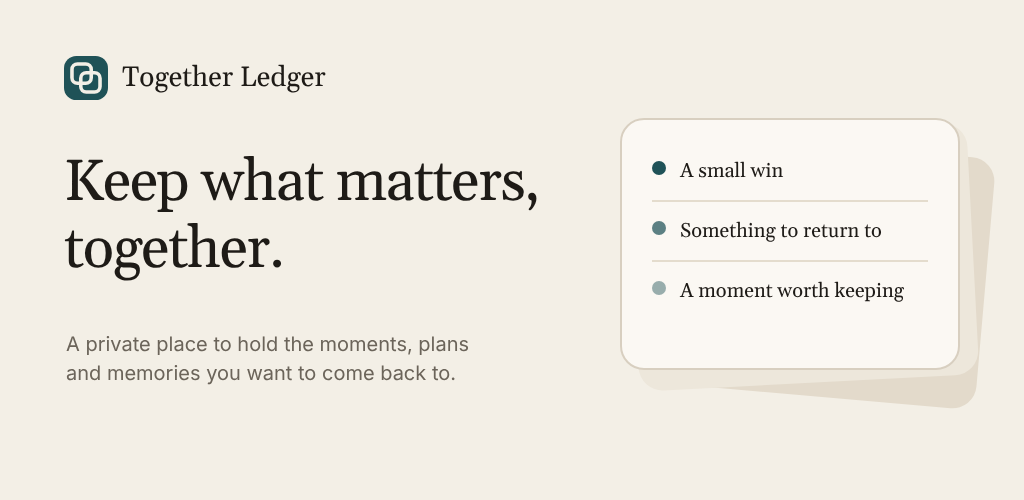
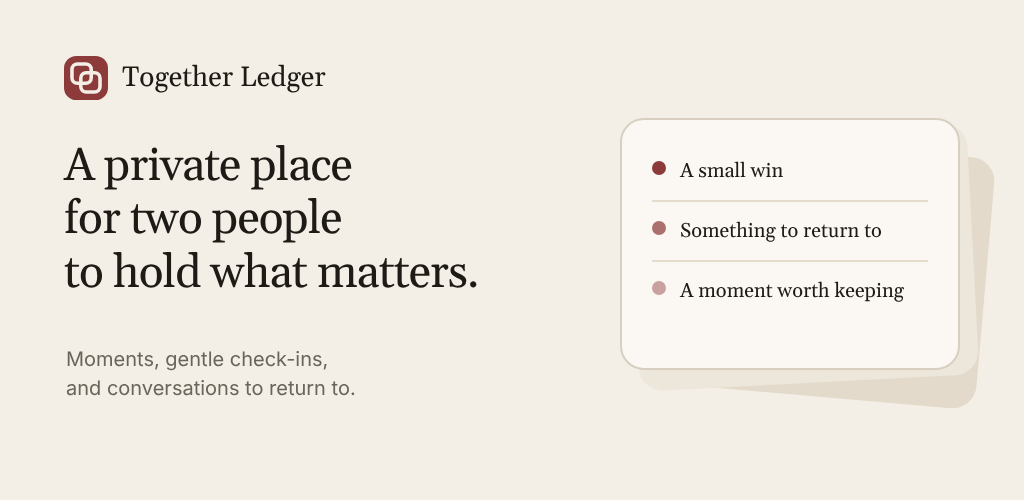
Describe Together Ledger as one product, in the knot's own colours
The listing now describes web and phone together, as one app: photos,
places, check-ins, milestones and export are in, and the lines that
limited it to the phone are gone. "For two people" stays, with "A journey
of two is free. You can add more people whenever you're ready", which the
checker now requires. The icon and feature graphic go back to the
original brand colours, the knot's #8C3A3A as on the website, and the
feature graphic to the site's social card copy. The README records
these as decided and notes that a web search found no app called
Together Ledger on Play.

diff --git a/store/google-play/source/feature-graphic.html b/store/google-play/source/feature-graphic.html
@@ -3,11 +3,10 @@
   Google Play feature graphic, 1024 × 500. Rendered to
   ../feature-graphic-1024x500.png by render.mjs.
 
-  The headline and the line under it are the app's own welcome copy
-  (apps/mobile/app/index.tsx), minus "for two people", which waits on #304.
-  The card on the right echoes the site's social card
-  (public/social/together-ledger-card.svg), with the dots in the accent role
-  instead of the retired red. Light theme roles from src/styles.css; Gelasio
+  The words and the card are the site's social card
+  (public/social/together-ledger-card.svg), in its original colours: the
+  knot and the dots in #8C3A3A, chosen by the owner on Oct 6. Paper, ink and
+  muted are the Light theme roles from src/styles.css; Gelasio
   at weight 400 for the serif (#177), the system sans for the rest. Nothing
   sits within 48 px of an edge, since Play can crop.
 -->
@@ -16,14 +15,14 @@
 <meta charset="utf-8">
 <style>
   @font-face { font-family: Gelasio; src: url(FONT_DIR/Gelasio_400Regular.ttf); font-weight: 400; }
-  :root { --bg: #F3EFE6; --fg: #1E1B17; --muted: #6B645A; --accent: #1F5257; --surface: #EDE7DB; --elev: #FBF8F3; --border: #D8CFC0; }
+  :root { --bg: #F3EFE6; --fg: #1E1B17; --muted: #6B645A; --brand: #8C3A3A; --surface: #EDE7DB; --elev: #FBF8F3; --border: #D8CFC0; }
   html, body { margin: 0; width: 1024px; height: 500px; overflow: hidden; background: var(--bg); color: var(--fg); }
   .sans { font-family: ui-sans-serif, system-ui, -apple-system, "Segoe UI", Roboto, sans-serif; }
   .serif { font-family: Gelasio, Georgia, serif; font-weight: 400; }
   .brand { position: absolute; left: 64px; top: 56px; display: flex; align-items: center; gap: 14px; }
   .brand span { font-size: 28px; }
-  .head { position: absolute; left: 64px; top: 150px; width: 560px; font-size: 58px; line-height: 1.16; letter-spacing: -0.02em; }
-  .sub { position: absolute; left: 66px; top: 330px; width: 540px; font-size: 20px; line-height: 1.45; color: var(--muted); }
+  .head { position: absolute; left: 64px; top: 140px; width: 560px; font-size: 46px; line-height: 1.16; letter-spacing: -0.02em; }
+  .sub { position: absolute; left: 66px; top: 345px; width: 520px; font-size: 20px; line-height: 1.45; color: var(--muted); }
   .stack { position: absolute; left: 620px; top: 118px; width: 340px; height: 252px; }
   .card { position: absolute; inset: 0; border-radius: 24px; }
   .c3 { background: #E3DACB; transform: translate(26px, 26px) rotate(5deg); }
@@ -31,16 +30,16 @@
   .c1 { background: var(--elev); border: 2px solid var(--border); padding: 22px 30px; box-sizing: border-box; }
   .row { display: flex; gap: 14px; align-items: baseline; padding: 16px 0; border-bottom: 2px solid #E4DCCD; font-size: 20px; white-space: nowrap; }
   .row:last-child { border-bottom: 0; }
-  .dot { width: 14px; height: 14px; border-radius: 50%; background: var(--accent); flex: none; transform: translateY(-2px); }
+  .dot { width: 14px; height: 14px; border-radius: 50%; background: var(--brand); flex: none; transform: translateY(-2px); }
 </style>
 </head>
 <body>
 <div class="brand">
-  <svg width="44" height="44" viewBox="0 0 64 64"><rect width="64" height="64" rx="18" fill="#1F5257"/><g transform="translate(6.4 6.4) scale(.8)" fill="none" stroke="#F3EFE6" stroke-width="6.5"><rect x="6.5" y="6.5" width="35" height="35" rx="10"/><rect x="22.5" y="22.5" width="35" height="35" rx="10"/></g></svg>
+  <svg width="44" height="44" viewBox="0 0 64 64"><rect width="64" height="64" rx="18" fill="#8C3A3A"/><g transform="translate(6.4 6.4) scale(.8)" fill="none" stroke="#F3EFE6" stroke-width="6.5"><rect x="6.5" y="6.5" width="35" height="35" rx="10"/><rect x="22.5" y="22.5" width="35" height="35" rx="10"/></g></svg>
   <span class="serif">Together Ledger</span>
 </div>
-<div class="head serif">Keep what matters,<br>together.</div>
-<div class="sub sans">A private place to hold the moments, plans<br>and memories you want to come back to.</div>
+<div class="head serif">A private place<br>for two people<br>to hold what matters.</div>
+<div class="sub sans">Moments, gentle check-ins,<br>and conversations to return to.</div>
 <div class="stack">
   <div class="card c3"></div><div class="card c2"></div>
   <div class="card c1 serif">

diff --git a/store/google-play/source/icon.html b/store/google-play/source/icon.html
@@ -7,10 +7,11 @@
   public/favicon.svg and index.html (#knot-mark): two overlapping rounded
   squares, same geometry, set a little smaller so Play's mask never clips it.
 
-  Colours are the Light theme's roles (src/styles.css,
-  apps/mobile/src/theme/tokens.json): accent #1F5257 behind, bg #F3EFE6 for
-  the knot. Not the favicon's #8C3A3A: that hex is the destructive role now,
-  and the destructive colour is only for what cannot be undone (CLAUDE.md).
+  Colours are the knot's own, exactly as the favicon and the social card
+  draw it: #8C3A3A behind, #F3EFE6 for the knot. The owner chose these
+  original brand colours on Oct 6 over the Light theme's accent. The hex is
+  also the in-app destructive role; that rule governs interface colour, and
+  this is the brand mark.
 -->
 <html>
 <head>
@@ -23,7 +24,7 @@
 </head>
 <body>
 <svg xmlns="http://www.w3.org/2000/svg" width="512" height="512" viewBox="0 0 64 64">
-  <rect width="64" height="64" fill="#1F5257"/>
+  <rect width="64" height="64" fill="#8C3A3A"/>
   <g transform="translate(9.6 9.6) scale(.7)" fill="none" stroke="#F3EFE6" stroke-width="6.5">
     <rect x="6.5" y="6.5" width="35" height="35" rx="10"/>
     <rect x="22.5" y="22.5" width="35" height="35" rx="10"/>

diff --git a/store/google-play/README.md b/store/google-play/README.md
@@ -3,16 +3,17 @@
 Draft of the Play Console **Main store listing** for Together Ledger
 (`com.togetherledger.ledger`), the "Store assets" part of Step 3 in the Google
 Play guide. The wording follows `CLAUDE.md` ("Language", "Design system") and
-`docs/PRODUCT_PRINCIPLES.md`, and describes the **phone app** as it is on
-`main`, not the web app.
+`docs/PRODUCT_PRINCIPLES.md`. It describes **Together Ledger as one
+product**, web and phone together, as the owner asked on Oct 6. The web has
+the most features today, and they are being brought to the phone.
 
 | Play Console field | File | Limit | Now |
 |---|---|---|---|
 | App name | `title.txt` | 30 | 15 |
-| Short description | `short-description.txt` | 80 | 66 |
-| Full description | `full-description.txt` | 4,000 | 2,052 |
+| Short description | `short-description.txt` | 80 | 52 |
+| Full description | `full-description.txt` | 4,000 | 2,010 |
 | App icon (512 × 512 PNG, opaque) | `icon-512.png` | 1 MB | 11 KB |
-| Feature graphic (1024 × 500 PNG) | `feature-graphic-1024x500.png` | 15 MB | 52 KB |
+| Feature graphic (1024 × 500 PNG) | `feature-graphic-1024x500.png` | 15 MB | 53 KB |
 
 Store settings to enter alongside them:
 
@@ -30,39 +31,34 @@ node store/google-play/check-listing.mjs
 
 It checks the three lengths, emoji, superlatives and other brands' names, the
 capacity words `CLAUDE.md` rules out (seats, licenses, slots, "removed"),
-claims the phone can't back yet, and that the lines keeping the listing
-honest are still there.
+claims nothing in Together Ledger backs yet, and that "A journey of two is
+free" and the agreement rule for adding people are still there.
 
 ## What every claim rests on
 
 | Claim | Where it's true |
 |---|---|
-| Kinds of moment, a date, a name, detail, your own kind; edit or delete | `apps/mobile/app/moment.tsx`, `src/model.js` |
-| Private / Share later / Shared now, in shape, word and border | `apps/mobile/app/moment.tsx`, the privacy cue language in `CLAUDE.md` |
+| Kinds of moment, a date, a place in your own words, a photo, detail, your own kind; edit or delete | `index.html` and `src/` (web), `apps/mobile/app/moment.tsx`, `src/model.js` |
+| Private / Share later / Shared now, in shape, word and border | both clients; the privacy cue language in `CLAUDE.md` |
 | A shared moment can't be made private again | `PRIVACY.md` |
-| Recent moments and what wants care | `apps/mobile/app/ledger.tsx` |
-| Return-to conversations; a history that is only ever added to | `apps/mobile/app/history.tsx` (append-only, #184) |
-| Two people to begin with; someone new joins only when everyone agrees | `TERMS.md`, `apps/mobile/app/journey-settings.tsx` |
-| No ads, no analytics, no crash reporting, nothing sold | `PRIVACY.md`, `README.md`, no SDK in `apps/mobile/package.json` |
-| Doesn't ask for location, contacts, camera, microphone or photos | No such module in `apps/mobile/package.json` |
-| Sign-in kept in the phone's secure storage | `PRIVACY.md`, `expo-secure-store` |
-| No scores; money is context, never a score | `apps/mobile/app/moment.tsx` ("never counted as a score"), `ROADMAP.md` |
-| Delete your account in the app | `apps/mobile/app/delete-account.tsx` |
-| Light, Dark, Green, Flexoki; your theme is only your view | the welcome screen, `apps/mobile/src/theme/` |
-| A journey is started on the web for now | `apps/mobile/app/ledger.tsx` empty state |
-| Photos and export are on the web for now | #187; `PRIVACY.md` (export is in browser Settings) |
+| A check-in asks one question at a time and saves nothing written | `README.md` ("bounded one-prompt-at-a-time check-in with no saved written answers") |
+| Recent moments and what wants care; return-to conversations | `apps/mobile/app/ledger.tsx`, `history.tsx`, and the web journey |
+| Milestones mark shared actions, never relationship quality | `README.md` ("action milestones") |
+| A history that is only ever added to | the Event Manager (web), `apps/mobile/app/history.tsx` (append-only, #184) |
+| A journey of two is free; more people can be added, only when everyone agrees | `TERMS.md`; owner decision, Oct 6 |
+| No ads, no analytics trackers, nothing sold | `PRIVACY.md` |
+| No scores; money is context, never a score | `README.md`, `ROADMAP.md`, `moment.tsx` |
+| Export all journeys | web Settings ("Export all journeys") |
+| Delete your account | web Settings, `apps/mobile/app/delete-account.tsx` |
+| Same account on the phone and the web | private sync for separate accounts (`README.md`) |
+| Light, Dark, Green, Flexoki; your theme is only your view | both clients |
 | 18 and over; not therapy, financial advice or professional support | `TERMS.md`, `PRIVACY.md`, `index.html` |
 
-Left out on purpose:
-
-- **"For two people" as a fixed promise.** #304 is still open. The listing
-  uses `TERMS.md`'s form, which is accurate either way.
-- **Check-ins.** They're web-only.
-- **Notifications** (#265), **offline** (#300), **invite links** (#266),
-  **phone sign-in with Google or Apple** (#217), **sync** (#186) and
-  **encryption**.
-- **Any price or purchase.** The phone has none (#318, #320), and Play
-  doesn't allow pointing to payment elsewhere.
+Left out on purpose, because nothing in Together Ledger does them yet:
+**notifications** (#265), **offline** (#300), **encryption**, and
+"seamless" sync (#186 is open and `TERMS.md` disclaims conflicts). A
+**price** is left out too: only "a journey of two is free" is stated, since
+live billing isn't on yet.
 
 ## Images
 
@@ -70,35 +66,42 @@ Left out on purpose:
 `source/*.html` by `source/render.mjs` (see its header for how to run it).
 Edit the HTML, re-render, and commit both.
 
-- **Icon:** the knot from `public/favicon.svg`, same geometry, on the accent.
-  Full square with no corners or shadow, because Play adds its own. Opaque.
-- **Feature graphic:**
-  - Left: the app's welcome headline, "Keep what matters, together.", with
-    its line underneath minus "for two people".
-  - Right: a moment card stack echoing the site's social card.
-  - Nothing within 48 px of an edge, because Play can crop.
+- **Icon:** the knot from `public/favicon.svg`, same geometry and same
+  colours (#8C3A3A behind, #F3EFE6 for the knot). Full square with no
+  corners or shadow, because Play adds its own. Opaque.
+- **Feature graphic:** the site's social card
+  (`public/social/together-ledger-card.svg`) at Play's size: "A private
+  place for two people to hold what matters.", its line about moments and
+  check-ins, and the moment card stack. Nothing within 48 px of an edge,
+  because Play can crop.
 
-Colours are the Light theme's roles (`src/styles.css`,
-`apps/mobile/src/theme/tokens.json`). The serif is Gelasio at weight 400
-(#177) and the rest is the system sans.
+The icon is one fixed image and doesn't follow the four in-app themes, so it
+keeps the brand's original colours, as the owner chose on Oct 6. Paper and
+ink are the Light theme's roles; the serif is Gelasio at weight 400 (#177)
+and the rest is the system sans.
+
+## Decided
+
+- **Colour** (Oct 6): the knot keeps its original #8C3A3A, as on the
+  website. The same hex is the in-app destructive role. That rule is about
+  interface colour, and the brand mark sits outside it.
+- **Two people** (Oct 6): "for two people" stays, with the line "A journey of
+  two is free. You can add more people whenever you're ready" (#304).
+- **Scope** (Oct 6): the listing describes the whole product, web and phone.
 
 ## Open calls for the owner
 
-1. **The icon's colour.** The knot on the website (`public/favicon.svg`,
-   `public/social/together-ledger-card.svg`) is still filled with `#8C3A3A`.
-   That hex is now the **destructive** role, and `CLAUDE.md` keeps it for
-   what can't be undone, so this icon uses the accent `#1F5257` instead. If
-   that's right, the favicon and social card should follow, as a separate
-   change.
-2. **"Two people" or "people"** (#304). Once decided, the headline line and
-   "A journey holds two people to begin with" may change.
-3. **Category.** Lifestyle is suggested and not decided.
-4. **The app's own icon is still Expo's placeholder.**
+1. **Category.** Lifestyle is the suggestion; nothing decides it yet.
+2. **The app's own icon is still Expo's placeholder.**
    `apps/mobile/assets/icon.png`, the adaptive icon layers and
    `adaptiveIcon.backgroundColor` (`#E6F4FE`) are Expo's defaults. Play
    expects the store icon to match the launcher icon, so they need this
    design before the first upload. That's a separate change.
-5. **Screenshots** (at least two phone screenshots) aren't part of this
+3. **Name.** Web search found no app called "Together Ledger" on Play (Oct 6).
+   Play itself is blocked from the session that checked, so look once in
+   Play Console before the first upload. There is an unrelated GitHub project
+   called `together-ledger` (a shared expense tracker), not on Play.
+4. **Screenshots** (at least two phone screenshots) aren't part of this
    draft. They must be of the real app, so they wait on a build. The reviewer
    account (#319) holds a journey already lived in, which would make good
    ones.
